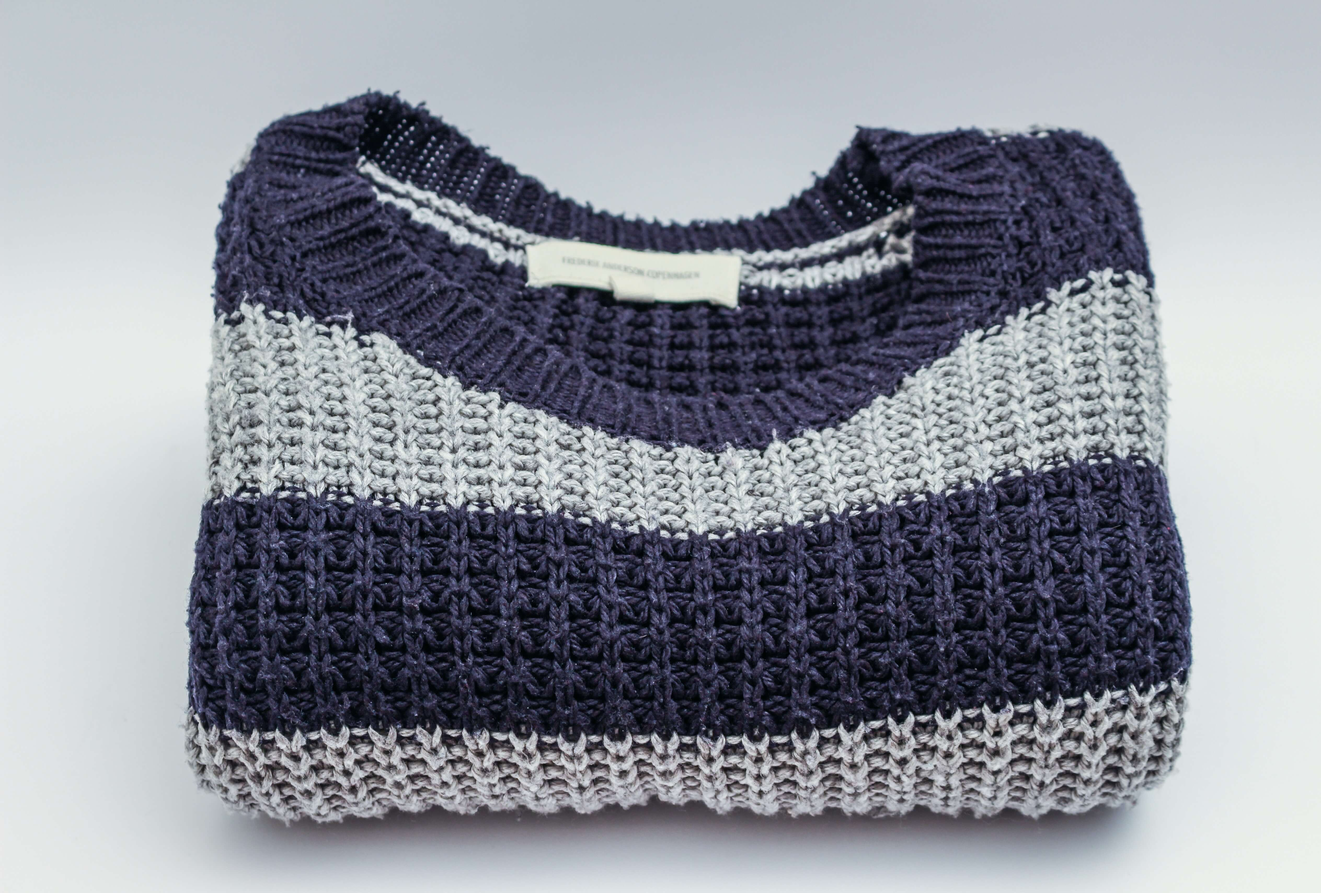
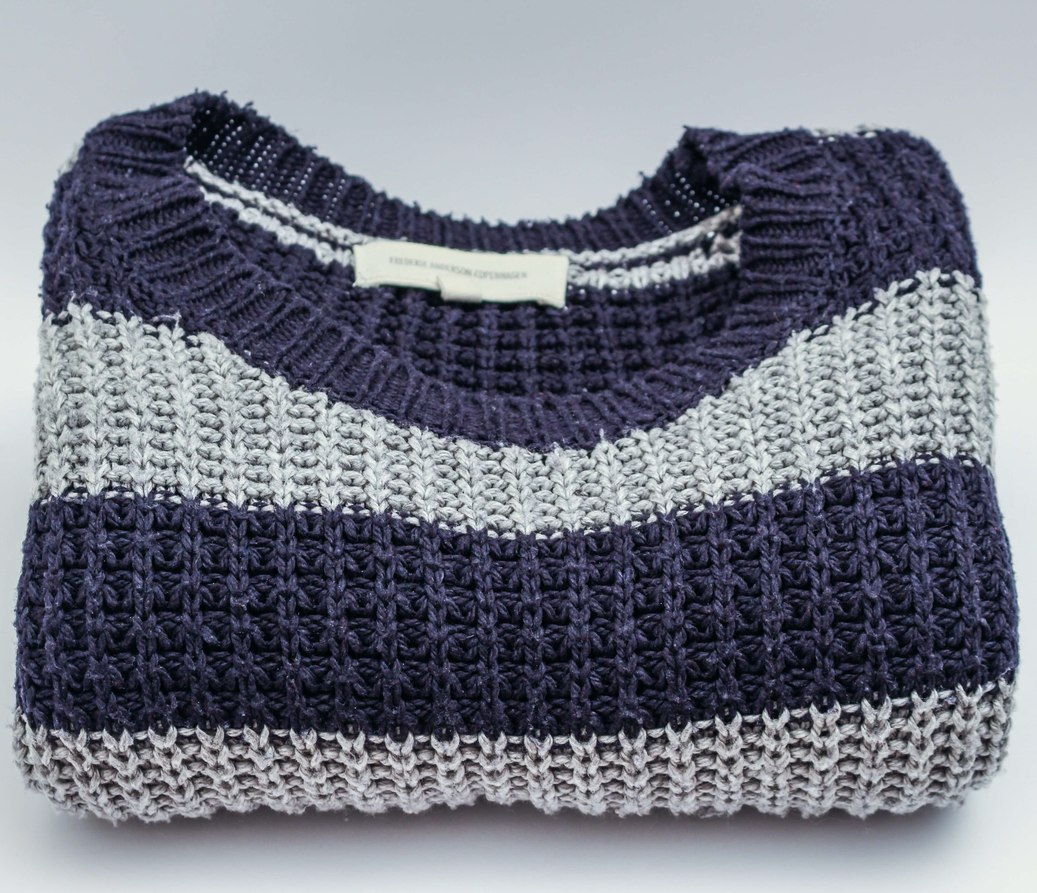
Update: resize product images to 1:1

diff --git a/src/styles/globals.css b/src/styles/globals.css
@@ -85,14 +85,6 @@
   overflow: auto;
 }
 
-img {
-  max-inline-size: 100%;
-  block-size: auto;
-  object-fit: cover;
-  object-position: top center;
-  position: relative;
-}
-
 html,
 body {
   scroll-behavior: smooth;
@@ -111,8 +103,4 @@ body {
 a {
   color: inherit;
   text-decoration: none;
-}
-.product-card {
-  border-radius: 0.475rem;
-  border: 1px solid #dfe3e6;
 }
